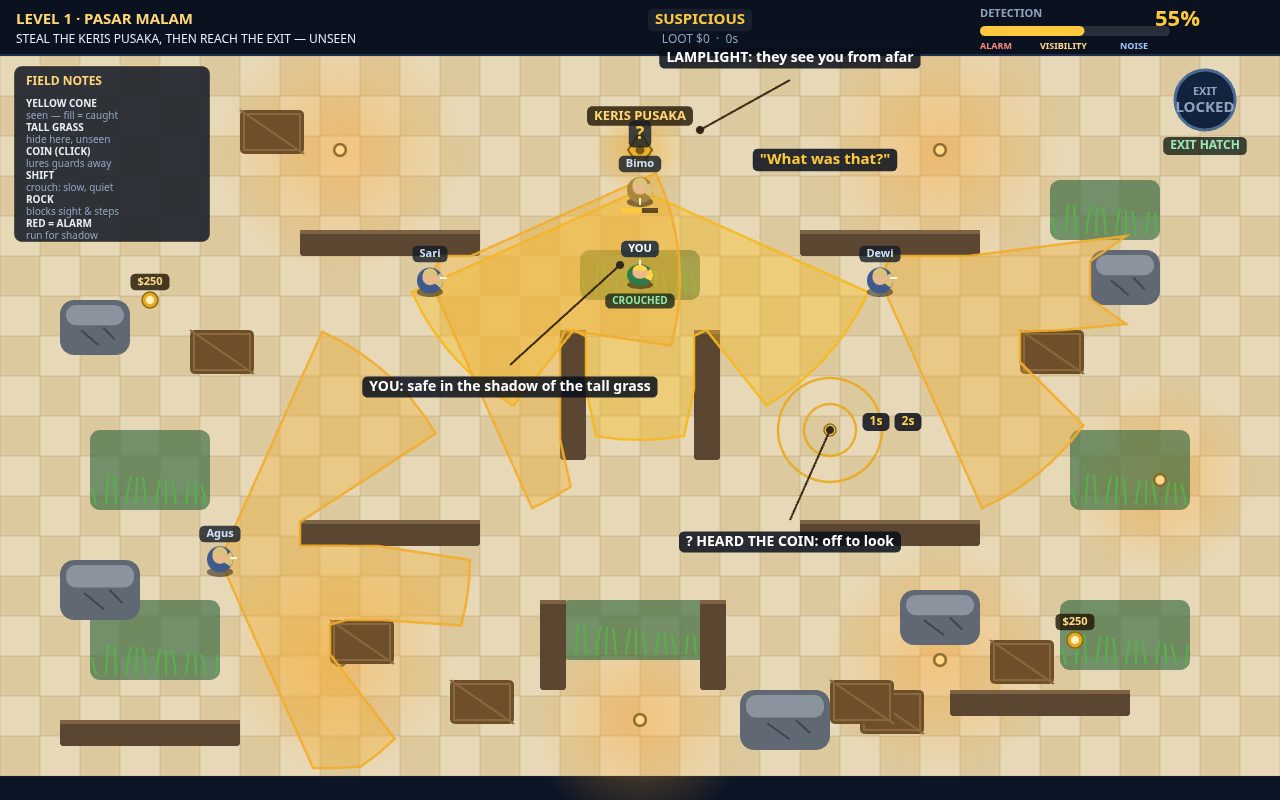
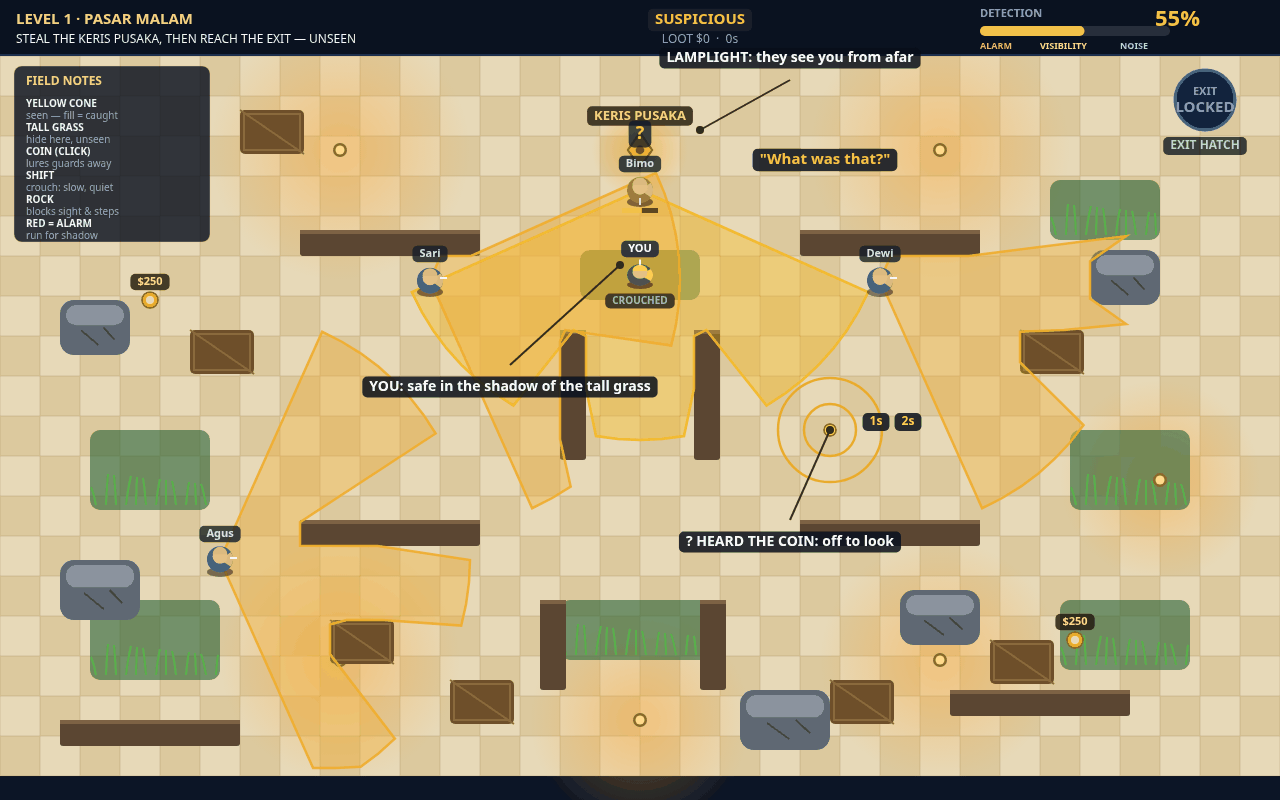
Darker dusk title background + separate touching crates (v4 revision 4)

Changed region(s): [[0.6562, 0.8438, 0.7188, 0.9375], [0.9062, 0.125, 0.9688, 0.1875], [0.4688, 0.3438, 0.5312, 0.375]]

diff --git a/game/src/render.js b/game/src/render.js
@@ -129,12 +129,15 @@ export function render(ctx, g) {
   if (g.screen === 'victory') drawVictory(ctx, g);
 }
 
-function drawFloor(ctx, def) {
+function drawFloor(ctx, def, flat) {
   // FRESH floor: warm light sandstone, deliberately bright — unlike the
   // dark floors of the top ranks. Two light sand tones checker the tiles
-  // so the board still has texture under the cones.
+  // so the board still has texture under the cones. flat=true (title
+  // backdrop) skips the checker + grid so the backdrop stays smooth and
+  // the title PNG stays small, while props and lamplight still show.
   ctx.fillStyle = '#e7d9b8';
   ctx.fillRect(0, VIEW.hud, VIEW.w, VIEW.floor - VIEW.hud);
+  if (!flat) {
   for (let i = 0; i < VIEW.w / 40; i++) {
     for (let j = 0; j < (VIEW.floor - VIEW.hud) / 40; j++) {
       if ((i + j) % 2) {
@@ -148,6 +151,7 @@ function drawFloor(ctx, def) {
   ctx.lineWidth = 1;
   for (let x = 0; x <= VIEW.w; x += 40) { ctx.beginPath(); ctx.moveTo(x, VIEW.hud); ctx.lineTo(x, VIEW.floor); ctx.stroke(); }
   for (let y = VIEW.hud; y <= VIEW.floor; y += 40) { ctx.beginPath(); ctx.moveTo(0, y); ctx.lineTo(VIEW.w, y); ctx.stroke(); }
+  }
   // checkered hall (museum) — light marble, stronger contrast than the sand
   if (def.checkered) {
     const c = def.checkered;
@@ -481,7 +485,7 @@ function drawTitle(ctx, g) {
   ctx.fillStyle = '#e7d9b8';
   ctx.fillRect(0, 0, VIEW.w, VIEW.h);
   const def = LEVELS[0];
-  drawFloor(ctx, def);
+  drawFloor(ctx, def, true); // flat backdrop: props + lamplight show, no checker noise
   drawProps(ctx, def, g);
   // two patrol cones from level 1, frozen mid-sweep
   const solids = solidsOf(def);
@@ -490,8 +494,15 @@ function drawTitle(ctx, g) {
     { x: def.guards[1].path[0][0], y: def.guards[1].path[0][1], dir: Math.PI / 2 },
   ];
   for (const c of cones) drawCone(ctx, c.x, c.y, c.dir, GUARD_RANGE, GUARD_FOV, solids, '#f0ad2e', 0.3);
-  // sand veil: dims the world so the dark title text stays readable
-  ctx.fillStyle = 'rgba(231,217,184,.72)';
+  // dusk veil: a warm night-market amber over the world, so the dark title
+  // text stays readable while the backdrop still shows through
+  ctx.fillStyle = 'rgba(186,146,90,.70)';
+  ctx.fillRect(0, 0, VIEW.w, VIEW.h);
+  // soft night vignette: darker at the edges, clear in the middle
+  const vg = ctx.createRadialGradient(VIEW.w / 2, VIEW.h / 2, 260, VIEW.w / 2, VIEW.h / 2, 760);
+  vg.addColorStop(0, 'rgba(46,28,12,0)');
+  vg.addColorStop(1, 'rgba(46,28,12,.30)');
+  ctx.fillStyle = vg;
   ctx.fillRect(0, 0, VIEW.w, VIEW.h);
   drawPerson(ctx, 180, 620, 0, '#3d5a8a', '#d9c27a', {});
   label(ctx, 'BIMO', 180, 596, { size: 11, color: '#cfe0f5', align: 'center', bg: 'rgba(20,28,40,.8)' });

diff --git a/game/src/levels.js b/game/src/levels.js
@@ -25,7 +25,6 @@ export const LEVELS = [
     crates: [
       { x: 190, y: 330, w: 64, h: 44 }, { x: 1020, y: 330, w: 64, h: 44 },
       { x: 330, y: 620, w: 64, h: 44 }, { x: 990, y: 640, w: 64, h: 44 },
-      { x: 860, y: 690, w: 64, h: 44 },
       { x: 450, y: 680, w: 64, h: 44 }, { x: 830, y: 680, w: 64, h: 44 },
       { x: 240, y: 110, w: 64, h: 44 },
     ],
